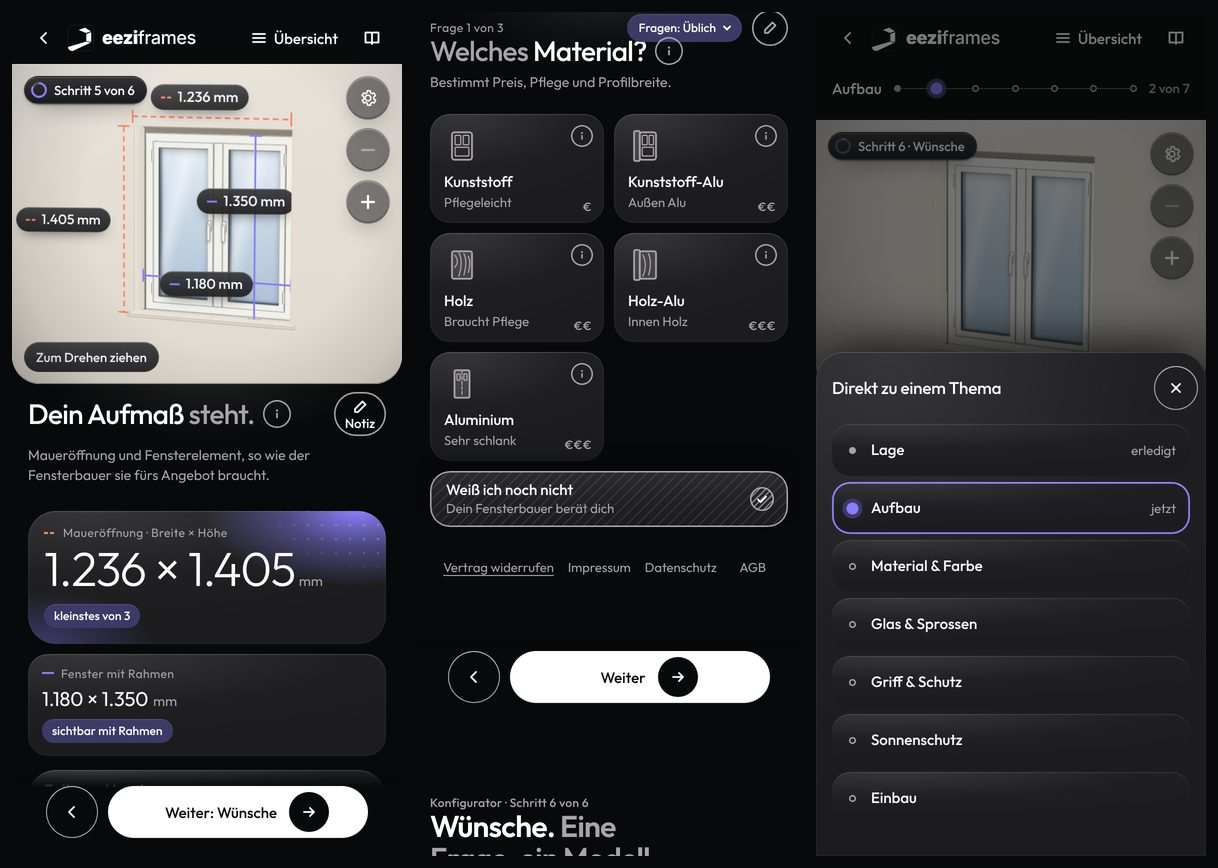
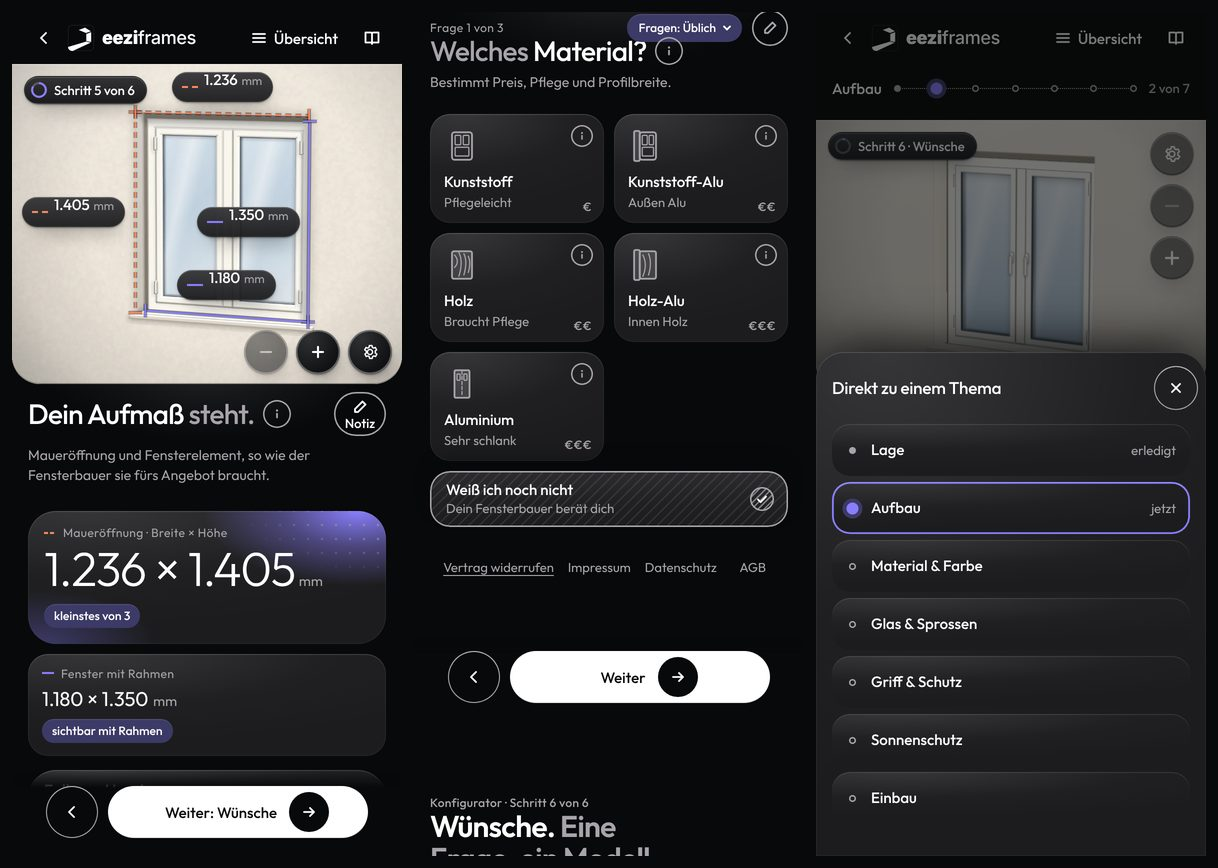
Konfigurator-Vorschau: beim Messen eine feste Ansicht, das 3-D-Modell nur in den Wünschen
Klarstellung des Inhabers: Wo die Kunden ihre Maße eingeben, stiftet
3-D nur Unruhe; dort eine vorgegebene Ansicht je Element, nachher in den
Wünschen die ausgearbeitete 3-D-Fassung. Das Ergebnis steht deshalb
wieder als feste Ansicht mit den vier Maßen an den Kanten, ohne
„Zum Drehen ziehen“; die Brücke verliert die Ansicht „result“. Regel im
Begleit-Skill, Protokoll ergänzt.

Claude-Session: https://claude.ai/code/session_0184P5fGdniWcDaYecSm6W1G

Changed region(s): [[0.0, 0.0622, 0.3432, 0.4355]]

diff --git a/docs/profis/konfigurator-start-vorschau/start.js b/docs/profis/konfigurator-start-vorschau/start.js
@@ -173,7 +173,6 @@
   function zeigeFolie(name, richtung) {
     Object.keys(folien).forEach(function (k) { var s = folien[k]; s.hidden = k !== name; s.classList.remove('kommt', 'zurueck'); });
     var s = folien[name]; app.setAttribute('data-folie', name); wechselBis = Date.now() + 450;
-    if (name === 'ergebnis') ergLiveAn(); else ergLiveWeg();
     /* Wer in der Vorschau direkt zu einer späteren Folie springt (ezVorschau.zeigeFolie), bekommt Beispielmaße statt „NaN“ (Zeichen, nebenbei) */
     if (['start', 'fotos', 'messen'].indexOf(name) < 0 && !(mess.werte.hm > 0 && mess.werte.wb > 0)) beispielMasse();
     app.scrollTop = 0; window.scrollTo(0, 0);
@@ -878,9 +877,8 @@
     ergLinien.setAttribute('viewBox', '0 0 ' + W + ' ' + S); ergLinien.style.width = W + 'px'; ergLinien.style.height = S + 'px';
     var P = function (x, y) { return [x * K.k + K.tx, y * K.k + K.ty]; }, chip = ergBuehne.querySelector('.ez-glaschip'), cR = { x: chip.offsetLeft - 4, y: chip.offsetTop - 4, w: chip.offsetWidth + 8, h: chip.offsetHeight + 8 };
     /* Werte ohne Überdeckung: je Wert Lagen der Reihe nach, die erste freie gilt (frei von Chip, anderen Werten und Linienenden) */
-    var belegt = [cR], enden = [], kn = ergBuehne.querySelector('.ez-erg__knoepfe'), dr = $('erg-drehen');
+    var belegt = [cR], enden = [], kn = ergBuehne.querySelector('.ez-erg__knoepfe');
     if (kn) belegt.push({ x: kn.offsetLeft - 4, y: kn.offsetTop - 4, w: kn.offsetWidth + 8, h: kn.offsetHeight + 8 });
-    if (dr && !dr.hidden) belegt.push({ x: dr.offsetLeft - 4, y: dr.offsetTop - 4, w: dr.offsetWidth + 8, h: dr.offsetHeight + 8 });
     var lagen = {};
     ['hm', 'wm', 'eh', 'ew'].forEach(function (k) {
       var l = L[k], A = P(l[0], l[1]), B = P(l[2], l[3]), senk = Math.abs(B[1] - A[1]) > Math.abs(B[0] - A[0]), g = ergLinien.querySelector('g[data-k="' + k + '"]'), ln = g.querySelectorAll('line');
@@ -959,38 +957,14 @@
     inp.value = n ? tausend(n) : ''; status(inp.labels && inp.labels[0] ? inp.labels[0].textContent + ': ' + (n ? tausend(n) + ' Millimeter' : 'leer') : '');
   }); });
   folien.ergebnis.querySelectorAll('.ez-erg__eingabe input').forEach(function (inp) { inp.addEventListener('input', function () { var n = num(inp.value); inp.value = n ? tausend(Math.min(n, 99999)) : ''; }); });
-  /* Ansicht wie in der App: − und + zoomen (1 bis 2), das Zahnrad ist „Haus: Fassade und Farbe“, Ziehen dreht in der App das Modell */
+  /* Vorgegebene Ansicht je Element, kein 3-D zum Drehen (Entscheidung des Inhabers, 27.10.2026: beim Messen stiftet 3-D Unruhe, das
+     ausgearbeitete 3-D-Modell kommt in den Wünschen); − und + zoomen (1 bis 2), das Zahnrad ist „Haus: Fassade und Farbe“ */
   folien.ergebnis.querySelectorAll('[data-zoom]').forEach(function (b) { b.addEventListener('click', function () {
     ergZoom = Math.max(1, Math.min(2, ergZoom + 0.25 * Number(b.getAttribute('data-zoom'))));
     folien.ergebnis.querySelector('[data-zoom="-1"]').disabled = ergZoom <= 1; folien.ergebnis.querySelector('[data-zoom="1"]').disabled = ergZoom >= 2;
     ergBuehneSetzen(); status(ergZoom > 1 ? 'Modell ' + Math.round(ergZoom * 100) + ' Prozent' : 'Modell ganz');
   }); });
   $('erg-haus').addEventListener('click', function () { status('In der App wählst du hier Fassade und Farbe der Hauswand.'); });
-  var dreh = null;
-  ergBuehne.addEventListener('pointerdown', function (e) { if (e.target.closest('button')) return; dreh = e.clientX; });
-  ergBuehne.addEventListener('pointerup', function (e) { if (dreh != null && Math.abs(e.clientX - dreh) > 12 && !ergLive) { $('erg-drehen').hidden = true; status('Das 3-D-Modell lädt noch; gleich dreht es sich mit dem Finger.'); } dreh = null; });
-  /* Ergebnis mit der echten Bühne der App (Korrektur des Inhabers, 27.10.2026): Ansicht „result“ mit Drehen, Zoom, Haus und den Maßlinien
-     der App. Am Modell steht das Maß, das zählt (das kleinste von drei, wie in den Kacheln; Vorschlag für die App). Die Wahl aus den
-     Wünschen kommt mit (ezVorschau.fenster.appWin). Beim Verlassen der Folie wird das Fenster wieder entfernt (Speicher). Bis es bereit
-     ist, steht das Bild mit den Linien der Vorschau. */
-  var ergRahmen = null, ergLive = false;
-  function ergLiveAn() {
-    if (ergRahmen) return;
-    ergRahmen = d.createElement('iframe'); ergRahmen.className = 'ez-erg__app'; ergRahmen.title = '3-D-Modell mit den vier Maßen: mit dem Finger drehen, Knöpfe für Zoom und Haus';
-    ergRahmen.addEventListener('load', function () {
-      var w = ergRahmen && ergRahmen.contentWindow; if (!w) return;
-      try { void w.document; } catch (e) { return; } /* Fehlerseite: das Bild des Ergebnisses bleibt */
-      var los = function () {
-        if (!ergRahmen || !w.ezBuehne) return; var v = ergWerte(), m = mess.werte, F = window.ezVorschau ? window.ezVorschau.fenster : {};
-        w.ezBuehne.setze({ art: art, name: (F && F.name) || '', win: F && F.appWin ? F.appWin : null, mo: { hm: m.hm, hl: m.hl, hr: m.hr, wm: m.wm, wt: m.wt, wb: m.wb }, el: { h: m.h, w: m.w }, screen: 'ergebnis' });
-        w.ezBuehne.beschrifte({ hm: tausend(v.moH) + NB + 'mm', wm: tausend(v.moW) + NB + 'mm' });
-        ergLive = true; ergBuehne.classList.add('ist-live');
-      };
-      if (w.ezBuehne) los(); else w.addEventListener('ez-buehne-bereit', los);
-    });
-    ergRahmen.src = 'app/buehne.html'; ergBuehne.insertBefore(ergRahmen, ergBuehne.firstChild);
-  }
-  function ergLiveWeg() { if (!ergRahmen) return; ergRahmen.remove(); ergRahmen = null; ergLive = false; ergBuehne.classList.remove('ist-live'); }
   /* Zurück führt dorthin, woher man kam: von „Gespeichert“ (Maße ändern) wieder dorthin, sonst zu den Rändern (wie einstiegHier der App) */
   function ergZurueck() { var api = window.ezVorschau || {}, von = api.ergVon; api.ergVon = ''; if (von && folien[von]) zeigeFolie(von, -1); else zeigeFolie('messen', -1); }
   $('erg-zurueck').addEventListener('click', ergZurueck); folien.ergebnis.querySelector('[data-erg-zurueck]').addEventListener('click', ergZurueck);

diff --git a/docs/profis/konfigurator-start-vorschau/index.html b/docs/profis/konfigurator-start-vorschau/index.html
@@ -315,7 +315,6 @@
                 <span class="ez-glaschip"><i class="ez-ring" style="--anteil:.833" aria-hidden="true"></i>Schritt&nbsp;5 von&nbsp;6</span>
                 <svg class="ez-erg__linien" id="erg-linien" viewBox="0 0 390 260" preserveAspectRatio="none" aria-hidden="true"><g data-k="hm"><line class="ez-erg__halo"/><line class="ez-erg__linie"/><line class="ez-erg__kappe-halo"/><line class="ez-erg__kappe"/><line class="ez-erg__kappe-halo"/><line class="ez-erg__kappe"/></g><g data-k="wm"><line class="ez-erg__halo"/><line class="ez-erg__linie"/><line class="ez-erg__kappe-halo"/><line class="ez-erg__kappe"/><line class="ez-erg__kappe-halo"/><line class="ez-erg__kappe"/></g><g data-k="eh"><line class="ez-erg__halo"/><line class="ez-erg__linie"/><line class="ez-erg__kappe-halo"/><line class="ez-erg__kappe"/><line class="ez-erg__kappe-halo"/><line class="ez-erg__kappe"/></g><g data-k="ew"><line class="ez-erg__halo"/><line class="ez-erg__linie"/><line class="ez-erg__kappe-halo"/><line class="ez-erg__kappe"/><line class="ez-erg__kappe-halo"/><line class="ez-erg__kappe"/></g></svg>
                 <span class="ez-erg__wert" data-k="hm" data-wer="mo" aria-hidden="true"><i></i><b>1.236</b><small>mm</small></span><span class="ez-erg__wert" data-k="wm" data-wer="mo" aria-hidden="true"><i></i><b>1.236</b><small>mm</small></span><span class="ez-erg__wert" data-k="eh" data-wer="el" aria-hidden="true"><i></i><b>1.236</b><small>mm</small></span><span class="ez-erg__wert" data-k="ew" data-wer="el" aria-hidden="true"><i></i><b>1.236</b><small>mm</small></span>
-                <span class="ez-glaschip ez-glaschip--unten ez-erg__drehen" id="erg-drehen">Zum Drehen ziehen</span>
                 <div class="ez-erg__knoepfe" role="group" aria-label="Ansicht des Modells">
                   <button type="button" class="ez-erg__rundknopf" data-zoom="-1" aria-label="Kleiner" disabled><svg viewBox="0 0 16 16" fill="none" stroke="currentColor" stroke-width="1.8" stroke-linecap="round" aria-hidden="true"><path d="M3.5 8h9"/></svg></button>
                   <button type="button" class="ez-erg__rundknopf" data-zoom="1" aria-label="Größer"><svg viewBox="0 0 16 16" fill="none" stroke="currentColor" stroke-width="1.8" stroke-linecap="round" aria-hidden="true"><path d="M3.5 8h9M8 3.5v9"/></svg></button>
@@ -1121,7 +1120,7 @@
         <li><span class="nr">03</span><span><b>Maße gegen Foto</b> (nur mit KI-Befund, in der Vorschau mit dem Beispielfoto), <b>Aus deinen Fotos</b> (nur die Zahl) und <b>Falls zur Hand</b> auf Weiß: Brüstungshöhe und Laibungstiefe mit − und + wie in der App. <span class="ez-gen">G13</span></span></li>
         <li><span class="nr">04</span><span><b>Eine Pille:</b> „Weiter: Wünsche“ (bei Türen „Weiter: Wunschtür“). <span class="ez-gen">G6</span></span></li>
       </ul>
-      <p class="ez-klein">Auf der Bühne läuft die App selbst (Ansicht „result“ mit ihren Maßlinien): drehen, zoomen und das Haus wie im Konfigurator; mit den Wünschen von vorher, wenn man aus den Wünschen zurückkommt. Am Modell steht das Maß, das zählt (das kleinste von drei), wie in den Kacheln darunter. Bis das Bühnenfenster bereit ist, steht ein Bild des Modells da. Keine eigene Bewegung auf dieser Folie außer dem Folienwechsel.</p>
+      <p class="ez-klein">Eine vorgegebene Ansicht je Element, kein 3-D zum Drehen: Beim Messen stiftet 3-D nur Unruhe (Entscheidung des Inhabers); das ausgearbeitete 3-D-Modell der App kommt in den Wünschen. − und + vergrößern, das Zahnrad wählt in der App Fassade und Farbe. Keine eigene Bewegung auf dieser Folie außer dem Folienwechsel.</p>
       </div>
       <div class="ez-notiz__folie" data-fuer="wuensche" hidden>
       <span class="dna-label">Konfigurator · Schritt&nbsp;6 von&nbsp;6</span>

diff --git a/docs/profis/konfigurator-start-vorschau/app/ez-bruecke.js b/docs/profis/konfigurator-start-vorschau/app/ez-bruecke.js
@@ -83,20 +83,14 @@
   }
   function block(n) { var p = d.querySelector('.qpanel'); return p ? p.children[n] : null; }
   function ersteFrage() { var c = qCurrent(), e = c.list.find(function (x) { return x.id !== 'lage' && x.id !== 'tiefe'; }); return e ? e.id : null; }
-  var hoerer = [], t = 0, beschriftung = null;
-  function beschriften() {
-    if (!beschriftung) return;
-    Object.keys(beschriftung).forEach(function (k) { var lab = d.querySelector('#w3d .w3d-dim[data-dim="' + k + '"] .w3d-dim-lab'); if (lab && lab.textContent !== beschriftung[k]) lab.textContent = beschriftung[k]; });
-  }
-  function melden() { beschriften(); clearTimeout(t); t = setTimeout(function () { hoerer.forEach(function (f) { try { f(); } catch (e) { /* weiter */ } }); }, 40); }
+  var hoerer = [], t = 0;
+  function melden() { clearTimeout(t); t = setTimeout(function () { hoerer.forEach(function (f) { try { f(); } catch (e) { /* weiter */ } }); }, 40); }
   window.ezBuehne = {
     /* Fenster aus der Vorschau: Art, Lage, Maße; dann die Frage (Standard: die erste nach Lage und Tiefe) */
     setze: function (o) {
       var w = o.win ? JSON.parse(JSON.stringify(o.win)) : baseWin(); if (!o.win) artSetzen(w, o.art || 'fenster');
       w.name = o.name || w.name || ''; w.etage = o.etage || w.etage || 'eg'; if (o.bru != null) w.bru = o.bru; w.mo = Object.assign(w.mo || {}, o.mo || {}); w.el = Object.assign(w.el || {}, o.el || {});
       S.win = w; S.editIdx = -1; S.proj.tiefe = o.tiefe || S.proj.tiefe || 'normal'; S.openSash = -1; S.selSash = 0;
-      /* Ergebnis: die Ansicht „result“ der App mit ihren Maßlinien */
-      if (o.screen === 'ergebnis') { go('ergebnis'); return; }
       S.q = o.q || null; go('frage');
       if (!o.q) { var e = ersteFrage(); if (e) { S.q = e; render(true); } }
     },
@@ -122,8 +116,6 @@
     eingabe: function (sel, wert) { var el = d.querySelector(sel); if (!el) return false; el.value = wert; el.dispatchEvent(new Event('input', { bubbles: true })); el.dispatchEvent(new Event('change', { bubbles: true })); return true; },
     gloss: function (k) { var g = (typeof GLOSS !== 'undefined' && GLOSS[k]) || null; return g ? { t: g.t, x: g.x, tipp: g.tipp, s: g.s } : null; },
     beiAenderung: function (f) { hoerer.push(f); },
-    /* Vorschlag der Vorschau: am Modell steht das Maß, das zählt (das kleinste von drei), wie in den Kacheln darunter */
-    beschrifte: function (o) { beschriftung = o || null; beschriften(); },
     /* Blätter der App (Haus: Fassade und Farbe, Farbkarte) hängen am body; offen heißt: das Bühnenfenster braucht den ganzen Schirm */
     blattOffen: function () { return !!d.querySelector('body > .fb'); },
     stand: function () { return { screen: S.screen, q: S.q, tiefe: S.proj.tiefe, win: JSON.parse(JSON.stringify(S.win)) }; }

diff --git a/docs/profis/konfigurator-start-vorschau/start.css b/docs/profis/konfigurator-start-vorschau/start.css
@@ -647,8 +647,6 @@ html:has(.ez-gross[open]) { overflow: hidden; overscroll-behavior: none; }
 .ez-erg__rundknopf:active:not(:disabled) { transform: scale(.94); transition-duration: 0s; }
 .ez-erg__rundknopf:disabled { color: var(--silbergrau); opacity: .55; cursor: default; }
 .ez-erg__rundknopf:focus-visible { outline: 2px solid var(--weiss); outline-offset: 2px; }
-.ez-erg__drehen { left: 12px; bottom: 16px; }
-.ez-buehne--erg { cursor: grab; }
 /* „Falls zur Hand“ geschlossen als Anthrazit-Zeile (G14), erst offen weiß: kein weißer Block direkt über der Pille */
 .ez-erg__hand:not([open]) { background: radial-gradient(120% 90% at 18% 0%, #363638, var(--anthrazit) 55%, #1c1c1e); box-shadow: inset 0 1px 0 rgba(255,255,255,.10), inset 0 0 0 1px rgba(255,255,255,.045); }
 .ez-erg__hand:not([open]) .ez-erg__hand-titel { color: var(--weiss); }
@@ -722,10 +720,3 @@ html { scroll-padding-bottom: 120px; }
 .ez-karte--passt.kommt { animation-duration: 180ms; }
 /* Ergebnis: die Bühne wächst auf 320 px, das Modell steht zwischen Chip und Knopfleiste in derselben Größe wie vorher (Bildfläche vor Dichte) */
 .ez-buehne--erg { height: 320px; }
-/* Ergebnis mit der echten Bühne der App: das Fenster füllt die Bühne; Bild, Linien, Werte und Knöpfe der Vorschau treten zurück,
-   die App bringt ihre eigenen (Drehen, Zoom, Haus, Maßlinien) */
-.ez-erg__app { position: absolute; inset: 0; z-index: 2; display: block; width: 100%; height: 100%; border: 0; background: transparent; opacity: 0; transition: opacity 220ms var(--dna-druck); }
-.ez-buehne--erg.ist-live .ez-erg__app { opacity: 1; }
-.ez-buehne--erg.ist-live #erg-bild, .ez-buehne--erg.ist-live .ez-erg__linien, .ez-buehne--erg.ist-live .ez-erg__wert, .ez-buehne--erg.ist-live .ez-erg__knoepfe, .ez-buehne--erg.ist-live .ez-erg__drehen { visibility: hidden; transition: visibility 0s 240ms; }
-.ez-buehne--erg .ez-glaschip { z-index: 4; pointer-events: none; }
-@media (prefers-reduced-motion: reduce) { .ez-erg__app { transition: none; } }

diff --git a/docs/profis/konfigurator-start-vorschau/wuensche.js b/docs/profis/konfigurator-start-vorschau/wuensche.js
@@ -186,7 +186,7 @@
     var q; try { q = B.frage(); } catch (e) { return; }
     if (!q || !q.id || q.id === 'lage' || q.id === 'tiefe') return;
     var neu = !LQ || LQ.id !== q.id; LQ = q;
-    /* Die Wahl geht mit ins Ergebnis (dort lädt ein eigenes Bühnenfenster) */
+    /* Stand der Wahl merken: ändern sich danach die Maße, setzt nachsetzen() das Fenster mit dieser Wahl neu */
     try { F.appWin = B.stand().win; } catch (e) { /* weiter */ }
     if (neu) { frageZeigen(richtungNext); if (richtungNext) { var app = d.getElementById('app'); if (app) app.scrollTop = 0; window.scrollTo(0, 0); } folgeSchritt(richtungNext); } else antwortSetzen(q);
     richtungNext = 0; bandSetzen();

diff --git a/.claude/skills/design-dna-eeziframes/SKILL.md b/.claude/skills/design-dna-eeziframes/SKILL.md
@@ -93,11 +93,18 @@ Diese Werte haben die Tiefe gebracht, die der Inhaber an seinen Vorlagen schätz
   ein Tipp aufs Bild öffnet eine Großansicht. Vorschlag für seine DNA, Abschnitt 9: „Die Bühne zeigt die Sache so groß, dass Anfang und
   Ende ohne Brille erkennbar sind; Vergrößern ist immer möglich.“
 - Echte 3-D-Bühne statt Standbilder (Korrektur des Inhabers, 27.10.2026, Wünsche): In der Vorschau fehlten Detailtiefe, Bewegung,
-  das Blatt der Einstellungen und Wahlen wie „Klinke ja oder nein“, weil sie Standbilder aus der App zeigte. Regel: Wo die App ein
-  lebendes Modell hat, zeigt auch die Vorschau die App selbst (app/buehne.html lädt app.js, buehne.js und modell.js unverändert,
-  sichtbar ist nur die Bühne; Fragen und Stand liest die Folie live, jeder Tipp geht an die App). Standbilder nur als Platzhalter,
-  bis die Bühne geladen ist, und nur, wo die App selbst kein lebendes Modell zeigt. Eine Vereinfachung der Vorschau gegenüber der App
-  wird vor dem Zeigen ausdrücklich genannt, nicht nur unter „Offen“.
+  das Blatt der Einstellungen und Wahlen wie „Klinke ja oder nein“, weil sie Standbilder aus der App zeigte. Regel: In den Wünschen
+  zeigt die Vorschau die App selbst (app/buehne.html lädt app.js, buehne.js und modell.js unverändert, sichtbar ist nur die Bühne;
+  Fragen und Stand liest die Folie live, jeder Tipp geht an die App). Standbilder dort nur als Platzhalter, bis die Bühne geladen ist.
+  Eine Vereinfachung der Vorschau gegenüber der App wird vor dem Zeigen ausdrücklich genannt, nicht nur unter „Offen“.
+- Beim Messen kein 3-D, in den Wünschen das ausgearbeitete 3-D (Klarstellung des Inhabers, 27.10.2026, nach dem Ergebnis mit der
+  App-Bühne): Die Kunden sollen „am Anfang“, wo sie ihre Maße eingeben, keine 3-D-Ansicht haben, „weil das einfach nur Unruhe
+  stiftet“, sondern eine vorgegebene Ansicht auf das jeweilige Element; „nachher“ in den Wünschen „auf jeden Fall“ die sehr stark
+  herausgearbeitete 3-D-Fassung. Regel: Messen, Ränder und Ergebnis (Maße eingeben und bestätigen) zeigen eine feste Ansicht je
+  Element, ohne Drehen; Vergrößern bleibt. Das 3-D-Modell der App mit Detailtiefe, Bewegung und jeder Wahl gehört in die Wünsche und
+  wird bei der Übernahme in die App dort nie durch Standbilder ersetzt. Die Vorschau muss es nicht über die Wünsche hinaus vorführen;
+  es geht um die App. Vorschlag für seine DNA, Abschnitt 9: „Beim Messen eine feste Ansicht je Element, in den Wünschen das
+  lebende Modell.“
 - Jede weitere Korrektur des Inhabers wird hier eingetragen und als Vorschlag für seine DNA genannt (Abschnitt 7 der DNA).
 
 ## 5. Rezept je Seite (so entstand die Startseite, etwa drei Stunden)
